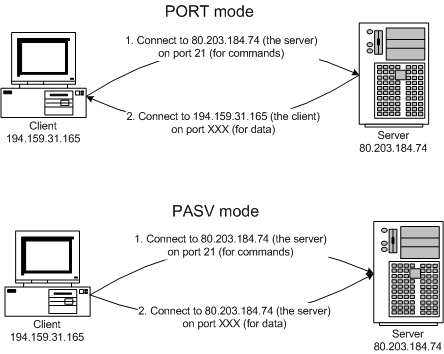
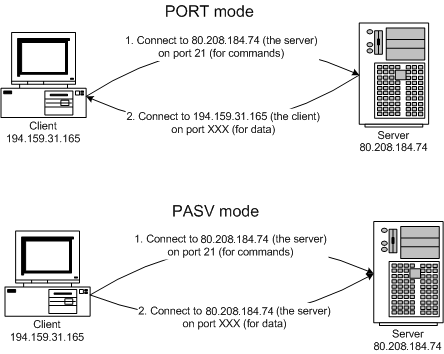
Hide IP address of MAME Testers

diff --git a/FTP/FTP.php b/FTP/FTP.php
@@ -105,9 +105,9 @@
 
 					Note: Usually the IP address and port are written as six numbers seperated by commas, for example:<br/><br/>
 
-					80,203,184,74,5,121<br/><br/>
+					80,208,184,74,5,121<br/><br/>
 
-					The first 4 numbers (80,203,184,74) are the IP address.<br/>
+					The first 4 numbers (80,208,184,74) are the IP address.<br/>
 					The last two numbers (5,121) are the port number (multiply the first number by 256 and add the second number). In this case it indicates port 1401.<br/><br/>
 
 					iii) The server will only allow logins from specific IP address ranges. If your IP address changes then it is possible that you may not be able to log in to the server and must ask the administrator to add your new IP address. This problem can clearly be seen by an appropriate message within your FTP client.<br/>
